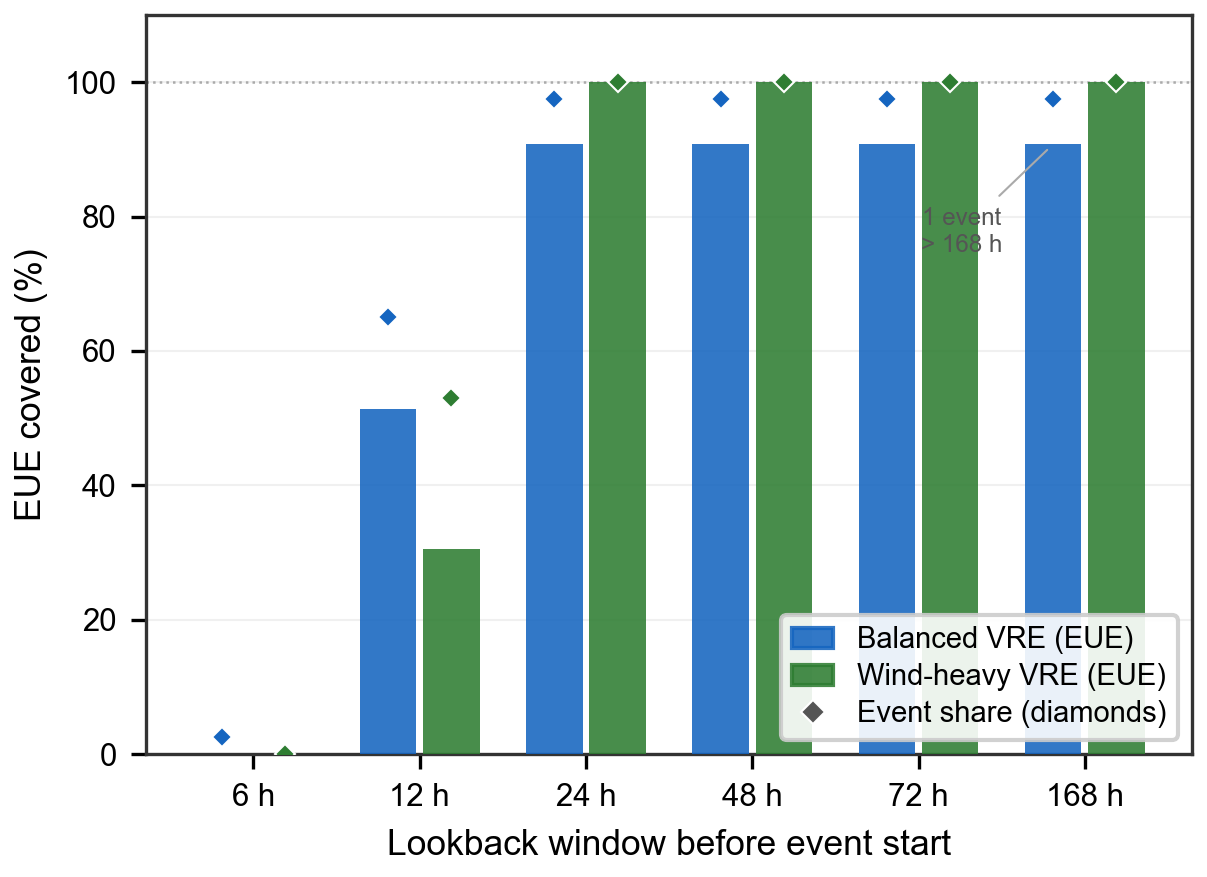
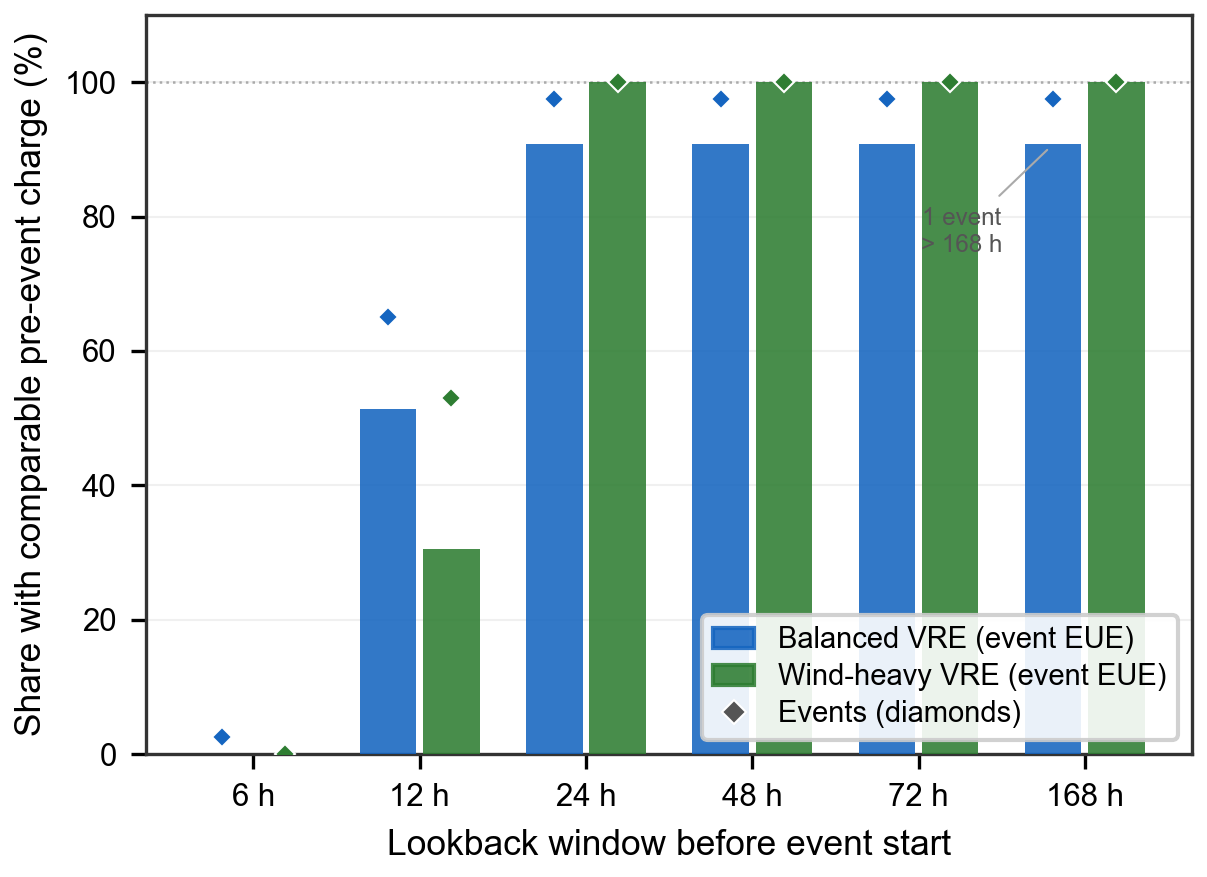
diagnostics: clarify recharge-window diagnostic wording
Replace 'covered/coverable/sufficient energy' language throughout with
'comparable pre-event charge' and 'recharge-window availability proxy'.
Add explicit disclaimer that the diagnostic is not a physical feasibility
proof.  Update docs, figure y-axis label, print statements, and legend
labels consistently.

Changed region(s): [[0.5824, 0.6773, 0.9809, 0.862], [0.0, 0.0308, 0.0613, 0.8312]]

diff --git a/scripts/52_make_recharge_window_figure.py b/scripts/52_make_recharge_window_figure.py
@@ -2,8 +2,12 @@
 """
 52_make_recharge_window_figure.py
 
-Bar chart: share of total event EUE covered by M3 storage charging accumulated
-within lookback windows of 6, 12, 24, 48, 72, and 168 h before each event.
+Recharge-window availability diagnostic (bar chart).
+
+For each lookback window (6–168 h), shows the share of M3 residual shortage
+events and their EUE for which full-year ED accumulated comparable pre-event
+storage charge within that window.  This is a recharge-window availability
+proxy, not a physical feasibility proof.
 
 Two series: balanced VRE (VRE120_base) and wind-heavy VRE (VRE120_wind_hvy).
 
@@ -74,8 +78,8 @@ eue_wind = [row_wind[f"share_eue_covered_{L}h"] * 100 for L in LOOKBACKS]
 ev_base  = [row_base[f"share_events_covered_{L}h"] * 100 for L in LOOKBACKS]
 ev_wind  = [row_wind[f"share_events_covered_{L}h"] * 100 for L in LOOKBACKS]
 
-print("Balanced VRE  — EUE covered (%):   ", [f"{v:.1f}" for v in eue_base])
-print("Wind-heavy VRE — EUE covered (%):  ", [f"{v:.1f}" for v in eue_wind])
+print("Balanced VRE  — share with comparable pre-event charge (%): ", [f"{v:.1f}" for v in eue_base])
+print("Wind-heavy VRE — share with comparable pre-event charge (%): ", [f"{v:.1f}" for v in eue_wind])
 print(f"Balanced VRE  — n_events={int(row_base['n_events'])}, "
       f"total_EUE={row_base['total_eue_mwh']:.0f} MWh (20 scenarios)")
 print(f"Wind-heavy VRE — n_events={int(row_wind['n_events'])}, "
@@ -109,7 +113,7 @@ ax.axhline(100, color="#AAAAAA", lw=0.6, ls=":", zorder=2)
 ax.set_xticks(x)
 ax.set_xticklabels(LABELS)
 ax.set_xlabel("Lookback window before event start")
-ax.set_ylabel("EUE covered (%)")
+ax.set_ylabel("Share with comparable pre-event charge (%)")
 ax.set_ylim(0, 110)
 ax.yaxis.set_major_locator(mticker.MultipleLocator(20))
 ax.grid(axis="y", alpha=0.18, linewidth=0.5)
@@ -124,16 +128,16 @@ legend_handles = [
            markeredgewidth=0.5, markeredgecolor="white"),
 ]
 legend_labels = [
-    "Balanced VRE (EUE)",
-    "Wind-heavy VRE (EUE)",
-    "Event share (diamonds)",
+    "Balanced VRE (event EUE)",
+    "Wind-heavy VRE (event EUE)",
+    "Events (diamonds)",
 ]
 ax.legend(legend_handles, legend_labels,
           loc="lower right", fontsize=7.0,
           framealpha=0.90, edgecolor="#cccccc",
           borderpad=0.4, labelspacing=0.3, handlelength=1.4)
 
-# Annotate the one uncovered balanced-VRE event at 168 h
+# Annotate the one balanced-VRE event with no comparable pre-event charge at 168 h
 ax.annotate("1 event\n> 168 h",
             xy=(x[-1] - offset, eue_base[-1]),
             xytext=(x[-1] - offset - 0.55, eue_base[-1] - 16),

diff --git a/docs/current_findings_synthesis.md b/docs/current_findings_synthesis.md
@@ -200,22 +200,25 @@ pre-storage EUE that the storage budget can cover; the 2.8–5.9% uncoverable
 residual corresponds exactly to the M3 EUE.
 
 **Recharge-window diagnostic (script 51/52):**
-An additional diagnostic examines how quickly M3 storage accumulates the charge
-needed to cover each shortage event.  For each M3 residual shortage event, the
+An additional diagnostic examines how quickly M3 storage accumulates charge
+comparable to each shortage event's EUE.  For each M3 residual shortage event, the
 cumulative storage charge in lookback windows of 6, 12, 24, 48, 72, and 168 h
-before event start is compared to the event EUE.
+before event start is compared to the event EUE.  This is a recharge-window
+availability proxy, not a physical feasibility proof.
 
 Key results (N=20, seed=42, `results/paper_tables/recharge_window_diagnostic.csv`):
 
-| Case | Events | EUE (20 scen) | Covered ≤ 12 h | Covered ≤ 24 h | Covered > 168 h |
-|------|--------|--------------|---------------|---------------|-----------------|
+| Case | Events | EUE (20 scen) | With comparable charge ≤ 12 h | With comparable charge ≤ 24 h | Needs > 168 h |
+|------|--------|--------------|------------------------------|------------------------------|--------------|
 | VRE120\_base | 40 | 49,583 MWh | 65% events / 51% EUE | 97.5% events / 90.8% EUE | 1 event |
 | VRE120\_wind\_hvy | 17 | 12,965 MWh | 53% events / 31% EUE | 100% events / 100% EUE | 0 events |
 
-The vast majority of residual shortage events in both portfolios are coverable by
-pre-event charging accumulated within 24 h.  This is consistent with the emergency-only
-MCS result: an emergency-only rule that charges greedily from system surplus builds up
-sufficient energy within short windows before most events.  One balanced-VRE event
+The vast majority of residual shortage events in both portfolios are associated with
+comparable pre-event charge accumulated within 24 h.  This supports the emergency-only
+MCS finding by showing that, in the full-year ED benchmark, comparable storage charge
+is accumulated shortly before most shortage events.  The diagnostic is not a physical
+feasibility proof, but it indicates that the tested cases mostly depend on short
+recharge windows rather than long-horizon energy shifting.  One balanced-VRE event
 requires > 168 h of pre-event charging — it represents a large, deep shortage where
 the entire storage budget must have been charged well in advance; this event is a
 candidate where full-year ED optimization provides more value than a simple

diff --git a/docs/paper_tables_and_figures_plan.md b/docs/paper_tables_and_figures_plan.md
@@ -655,12 +655,12 @@ CI95-LOLH shrinks 3.0× (N=20→200); CI95-EUE shrinks 2.3× (heavy-tailed).
 
 **Placement:** Supporting material / internal diagnostic (not in main paper draft).
 
-**Takeaway:** M3 storage charging accumulated within 24 h before each event is
-sufficient to cover the event EUE for 97.5% of balanced-VRE events (90.8% of
-total EUE) and 100% of wind-heavy events. One balanced-VRE event requires > 168 h
-of pre-event charging. This supports the emergency-only MCS finding: an
-emergency-only rule that charges greedily from system surplus builds up
-sufficient energy within short windows before most events.
+**Takeaway:** For 97.5% of balanced-VRE events and 100% of wind-heavy events, M3
+storage accumulated comparable pre-event charge within 24 h before the event.
+One balanced-VRE event requires > 168 h. This supports the emergency-only MCS
+finding by showing that, in the full-year ED benchmark, comparable storage charge
+is accumulated shortly before most shortage events.  The diagnostic is a
+recharge-window availability proxy, not a physical feasibility proof.
 
 **Source:** `results/paper_tables/recharge_window_diagnostic.csv`
 
@@ -670,8 +670,8 @@ sufficient energy within short windows before most events.
 
 **Key data (N=20, seed=42):**
 
-| Case | Events | EUE (20 scen) | ≤ 12 h events | ≤ 12 h EUE | ≤ 24 h events | ≤ 24 h EUE | > 168 h |
-|------|--------|--------------|--------------|------------|--------------|------------|---------|
+| Case | Events | EUE (20 scen) | Comparable charge ≤ 12 h (events) | ≤ 12 h (EUE) | ≤ 24 h (events) | ≤ 24 h (EUE) | > 168 h |
+|------|--------|--------------|----------------------------------|--------------|----------------|-------------|---------|
 | VRE120\_base | 40 | 49,583 MWh | 65.0% | 51.4% | 97.5% | 90.8% | 1 event |
 | VRE120\_wind\_hvy | 17 | 12,965 MWh | 52.9% | 30.5% | 100% | 100% | 0 |
 

diff --git a/docs/results_index.md b/docs/results_index.md
@@ -446,7 +446,7 @@ D:\Users\swang16\AppData\Local\Programs\Python\Python312\python.exe \
 | `event_operation_comparison.pdf/.png` | Appendix: representative shortage-event operation (Scenario 15, ED vs UC, h4984-4988) | Appendix B |
 | `storage_operation_comparison.pdf/.png` | Appendix: 3-panel storage operation (load shed, discharge, SOC) for M1c/M2/M3 — Scenario 15, h4959-5048 | Appendix B |
 | `storage_operation_comparison_compact.pdf/.png` | Main text Figure 5: compact 3-panel storage operation, local window rel -8 to +10 around first shedding hour | Main text |
-| `recharge_window_diagnostic.pdf/.png` | Recharge-window diagnostic: share of event EUE covered by M3 pre-event charge within 6/12/24/48/72/168 h | Supporting |
+| `recharge_window_diagnostic.pdf/.png` | Recharge-window availability diagnostic: share of event EUE with comparable M3 pre-event charge within 6/12/24/48/72/168 h (not a physical feasibility proof) | Supporting |
 | `figure_captions.md` | LaTeX-ready captions for all figures | — |
 
 **Key changes (2026-05-25):**
